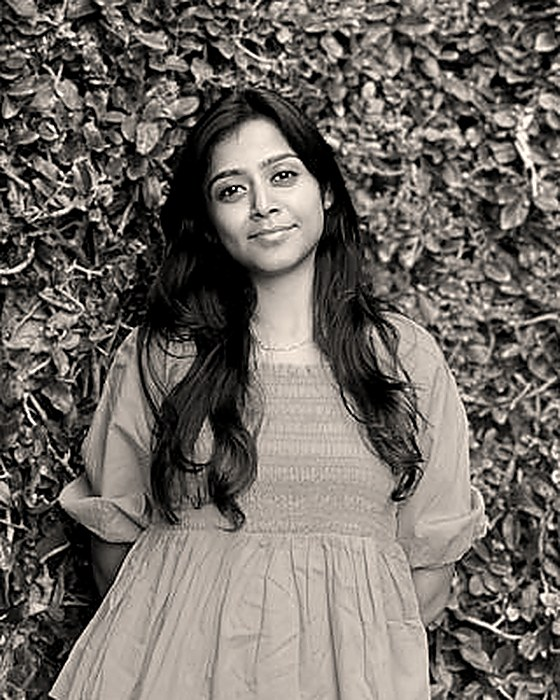
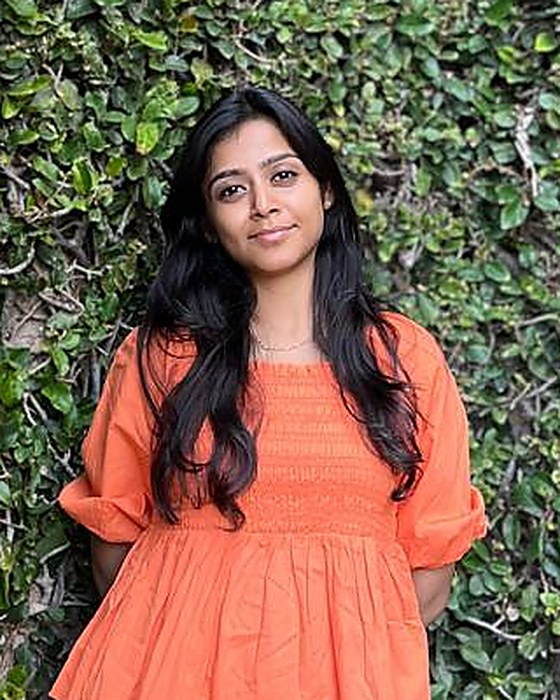
Revert the portrait to colour, keeping the tight crop
The monochrome read flat against a page whose whole identity is the
Syracuse orange/navy palette. In colour the top sits close enough to
#F76900 that it reads as part of the accent system rather than against it,
and it now sits directly alongside the orange metric figures and section
label.

The head-and-shoulders crop stays -- that was doing most of the work of
lifting it out of "lifestyle shot", not the desaturation.

The bw treatment stays available in build-images.py for any future photo
that suits it.

diff --git a/tools/build-images.py b/tools/build-images.py
@@ -27,11 +27,9 @@ IMAGES = [
         "source": "IMG-20260626-WA0020.jpg",
         # 960x1280 original. Head-and-shoulders 4:5 crop -- as tight as this
         # source allows (a true headshot would land around 208x260 and be
-        # unusable). Rendered warm black & white: the original is a casual
-        # bright-orange top against green ivy, and dropping the colour is what
-        # makes it read as a professional portrait rather than a lifestyle shot.
+        # unusable). Kept in colour; the tight crop alone does enough to lift
+        # it out of "lifestyle shot", and the orange top ties into the palette.
         "crop": (395, 645, 715, 1045),
-        "treatment": "bw",
         # 320 is native. 560 is a deliberate ~1.75x Lanczos upscale with
         # unsharp masking, purely so high-DPI screens get a sharpened asset
         # instead of the browser stretching the 320 one. It adds no real

diff --git a/README.md b/README.md
@@ -75,7 +75,7 @@ Two are used, both processed from the originals in `../pics/`:
 
 | Slot | Source file | Why |
 |---|---|---|
-| About portrait | `IMG-20260626-WA0020.jpg` | The only shot with direct eye contact and a clean read. Cropped head-and-shoulders and rendered in warm black & white to read as a professional portrait — the original is a casual bright-orange top against green ivy, and removing the colour is what does most of that work. **None of the twelve supplied photos is business attire; a real headshot would beat this.** The crop is as tight as the source allows — a true headshot would land near 208×260 and be unusable — so the frame displays at 300px rather than being scaled up. |
+| About portrait | `IMG-20260626-WA0020.jpg` | The only shot with direct eye contact and a clean read. Cropped head-and-shoulders so it reads as a portrait rather than a lifestyle photo, and kept in colour — the orange top lands close to Syracuse Orange `#F76900`, so it ties into the accent palette instead of competing with it. **None of the twelve supplied photos is business attire; a real headshot would beat this.** The crop is as tight as the source allows — a true headshot would land near 208×260 and be unusable — so the frame displays at 300px rather than being scaled up. |
 | Contact band | `eb0b3639-…JPG` | Natively wide, subject centred, muted grey-green tones that let the orange accents stay the loudest thing on the page. |
 
 Considered and not used:
@@ -95,9 +95,12 @@ Considered and not used:
 
 Worth doing, and it takes about ten minutes: plain wall, face a window, blazer or a plain dark
 top, phone at eye level on portrait mode, shot by someone else from ~1.5 m. Drop the file in
-`../pics/`, point the portrait entry in `tools/build-images.py` at it, adjust the crop box, and
-remove `"treatment": "bw"` if the new photo works in colour. Then re-run the script — the
-`<picture>` markup doesn't need to change.
+`../pics/`, point the portrait entry in `tools/build-images.py` at it and adjust the crop box,
+then re-run the script — the `<picture>` markup doesn't need to change.
+
+The script also supports `"treatment": "bw"` on any image entry, which applies a warm-neutral
+monochrome. It was tried on this portrait and dropped for looking flat against the rest of the
+page, but it's there if a future photo suits it.
 
 ### Swapping a photo
 
